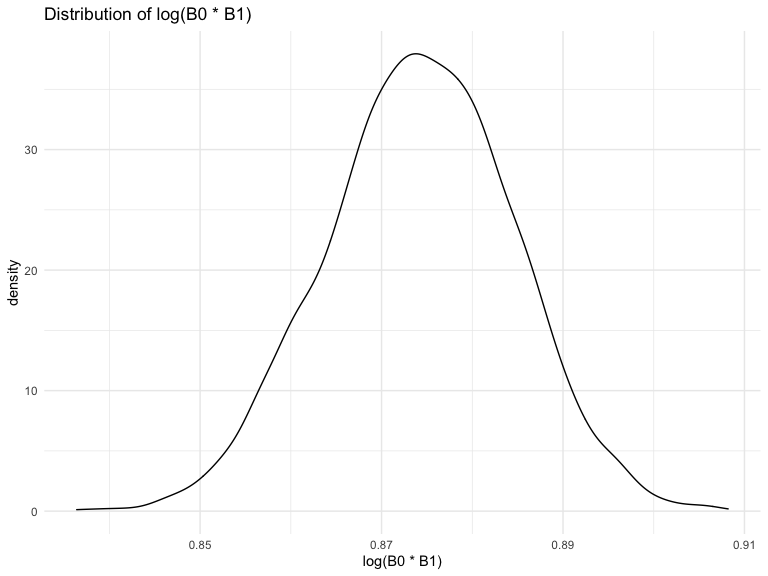
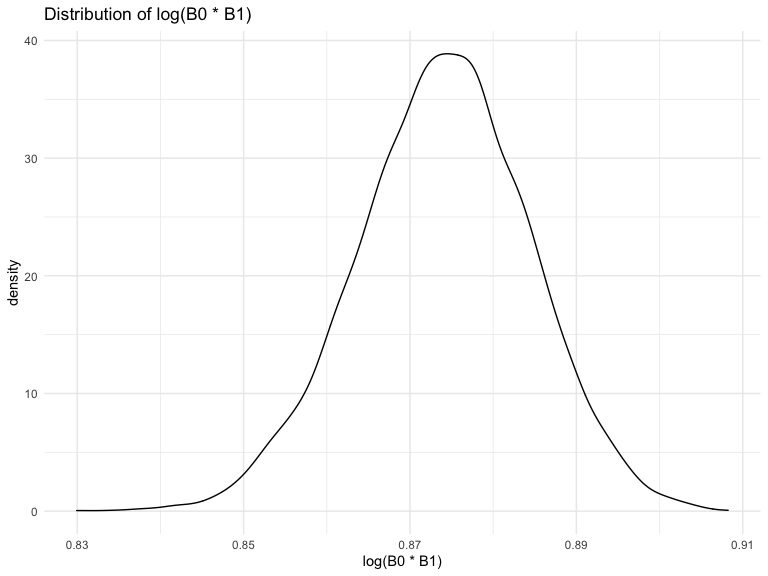
correct problem 2

diff --git a/p8105_hw6_hc3212.md b/p8105_hw6_hc3212.md
@@ -219,7 +219,7 @@ weather_df =
   dplyr::select(name, id, everything())
 ```
 
-let’s bootstrap
+let’s bootstrap and calculate
 
 ``` r
 weather_boot =
@@ -232,25 +232,22 @@ weather_boot =
     result_r = map(models, broom::glance)
   ) %>% 
   dplyr::select(strap_number, results, result_r) %>% 
-  unnest(results, result_r)
-```
-
-Calculate *l**o**g*(*β*<sub>0</sub>\**β*<sub>1</sub>)
-
-``` r
-callog =
-  weather_boot %>% 
-  dplyr::select(strap_number, term, estimate) %>% 
-  pivot_wider(names_from = term,
-              values_from = estimate) %>% 
-  rename(intercept ="(Intercept)") %>% 
-  mutate(logBB = log10(intercept*tmin))
+  unnest(result_r) %>% 
+  dplyr::select(strap_number, r.squared, results) %>% 
+  unnest(results) %>% 
+  group_by(strap_number) %>% 
+  mutate(
+    estimate2 = lead(estimate, n = 1),
+    logBB = log10(estimate * estimate2)
+  ) %>% 
+  filter(term == "(Intercept)") %>% 
+ dplyr:: select(strap_number, r.squared, logBB)
 ```
 
 Plot the distribution of *l**o**g*(*β*<sub>0</sub>\**β*<sub>1</sub>)
 
 ``` r
-callog %>% 
+weather_boot %>% 
   ggplot(aes(x = logBB)) +
   geom_density() + 
   xlab("log(B0 * B1)") +
@@ -268,7 +265,8 @@ better with higher bootstrap times.
 Calculate the 95% CI
 
 ``` r
-callog %>% 
+weather_boot %>% 
+  ungroup(strap_number) %>% 
   summarize(
     ci_lower = quantile(logBB, 0.025),
     ci_upper = quantile(logBB,0.975)
@@ -278,21 +276,12 @@ callog %>%
 
 |  ci_lower |  ci_upper |
 |----------:|----------:|
-| 0.8538846 | 0.8939297 |
-
-Calculate *r*<sup>2</sup>
-
-``` r
-r_square =
-  weather_boot %>% 
-  filter(term == "tmin") %>% 
-  dplyr::select(r.squared) 
-```
+| 0.8530451 | 0.8936584 |
 
 Plot the distribution of *r*<sup>2</sup>
 
 ``` r
-r_square %>% 
+weather_boot %>% 
   ggplot(aes(x = r.squared)) +
   geom_density() + 
   xlab("r square") +
@@ -311,7 +300,8 @@ distribution, it seems the model shows good fitness to the data.
 Calculate the 95% CI
 
 ``` r
-r_square %>% 
+weather_boot %>% 
+  ungroup(strap_number) %>% 
   summarize(
     ci_lower = quantile(r.squared, 0.025),
     ci_upper = quantile(r.squared,0.975)
@@ -319,6 +309,6 @@ r_square %>%
   knitr::kable()
 ```
 
-|  ci_lower |  ci_upper |
-|----------:|----------:|
-| 0.8943356 | 0.9276631 |
+| ci_lower |  ci_upper |
+|---------:|----------:|
+| 0.894402 | 0.9274902 |
